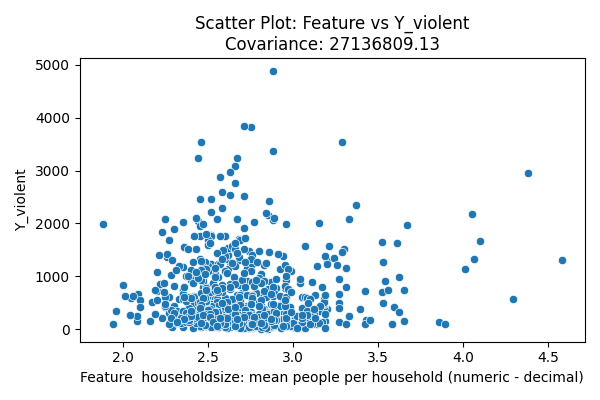
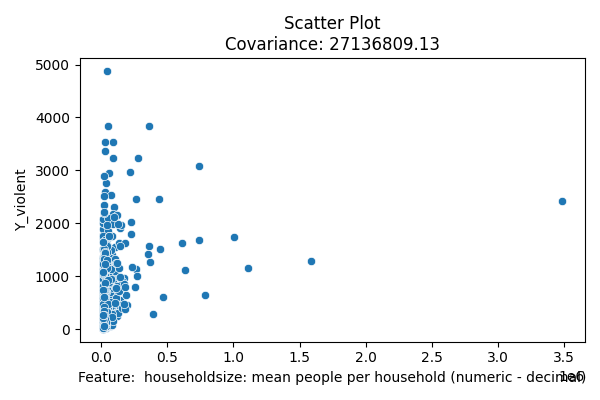
refactored

diff --git a/pythonsrc/feature_analysis.py b/pythonsrc/feature_analysis.py
@@ -1,41 +1,52 @@
-import seaborn as sns
 import numpy as np
-from train import X_train, Y_non_violent, Y_violent
+import seaborn as sns
 import matplotlib.pyplot as plt
-import typing
 from os import path
-#We start with covariance since it is trivial to analyze
-def covariance(x, y):
+from train import X_train, Y_violent
+
+# --- Utility Functions ---
+
+def covariance(x: np.ndarray, y: np.ndarray) -> float:
+    """Compute covariance between two arrays."""
     x = np.asarray(x)
     y = np.asarray(y)
     if x.shape != y.shape:
-        raise ValueError(f"Shapes do not match x.shape:{x.shape}, y.shape:{y.shape}")
+        raise ValueError(f"Shapes do not match: x.shape={x.shape}, y.shape={y.shape}")
     return np.mean((x - x.mean()) * (y - y.mean()))
 
-#Read columns from columns.txt for easy callback.
-with open("./proj1files/columns.txt",'r') as f:
-    col_names=f.read().splitlines()
+def load_column_names(filepath: str) -> list[str]:
+    """Load column names from a text file."""
+    with open(filepath, 'r') as f:
+        return f.read().splitlines()
 
-#Avoid h(x)=1, start from real features
-cov_violent=[]
-for col in range(1,78):
-    cov_violent.append([covariance(X_train[:,col],Y_violent),col])
+def compute_top_covariances(X: np.ndarray, y: np.ndarray, start_col: int, end_col: int, top_n: int = 5) -> list[tuple[float, int]]:
+    """Compute and return top N features with highest absolute covariance."""
+    cov_list = [(covariance(X[:, col], y), col) for col in range(start_col, end_col)]
+    cov_list.sort(key=lambda x: abs(x[0]), reverse=True)
+    return cov_list[:top_n]
 
-cov_violent.sort(key=lambda x: abs(x[0]),reverse=1)
-top_five=cov_violent[:5]
-
-#Top five features.
-for i in range(0,5):  
-    print(f"feature:{col_names[cov_violent[i][1]]} | cov: {cov_violent[i][0]}")
-
-for cov, idx in top_five:
+def plot_and_save_feature(X: np.ndarray, y: np.ndarray, feature_idx: int, feature_name: str, cov_value: float, output_dir: str = "./media"):
+    """Generate and save a scatter plot for a given feature."""
     plt.figure(figsize=(6, 4))
-    sns.scatterplot(x=X_train[:, idx+1], y=Y_violent)
-    plt.xlabel(f"Feature {col_names[idx]}")
+    sns.scatterplot(x=X[:, feature_idx], y=y)
+    plt.xlabel(f"Feature: {feature_name}")
     plt.ylabel("Y_violent")
-    plt.title(f"Scatter Plot: Feature vs Y_violent\nCovariance: {cov:.2f}")
+    plt.title(f"Scatter Plot\nCovariance: {cov_value:.2f}")
     plt.tight_layout()
-    if(not path.exists(f"./media/plot{idx}.png")):
-        plt.savefig(f"./media/plot{idx}.png")
+
+    filename = f"{output_dir}/plot{feature_idx}.png"
+    if not path.exists(filename):
+        plt.savefig(filename)
     else:
-        print(f"plot{idx} already there")
+        print(f"{filename} already exists.")
+
+# --- Main Execution ---
+
+if __name__ == "__main__":
+    col_names = load_column_names("./proj1files/columns.txt")
+    top_features = compute_top_covariances(X_train, Y_violent, start_col=1, end_col=78, top_n=5)
+
+    for cov, idx in top_features:
+        feature_name = col_names[idx]
+        print(f"Feature: {feature_name} | Covariance: {cov:.2f}")
+        plot_and_save_feature(X_train, Y_violent, idx, feature_name, cov)
